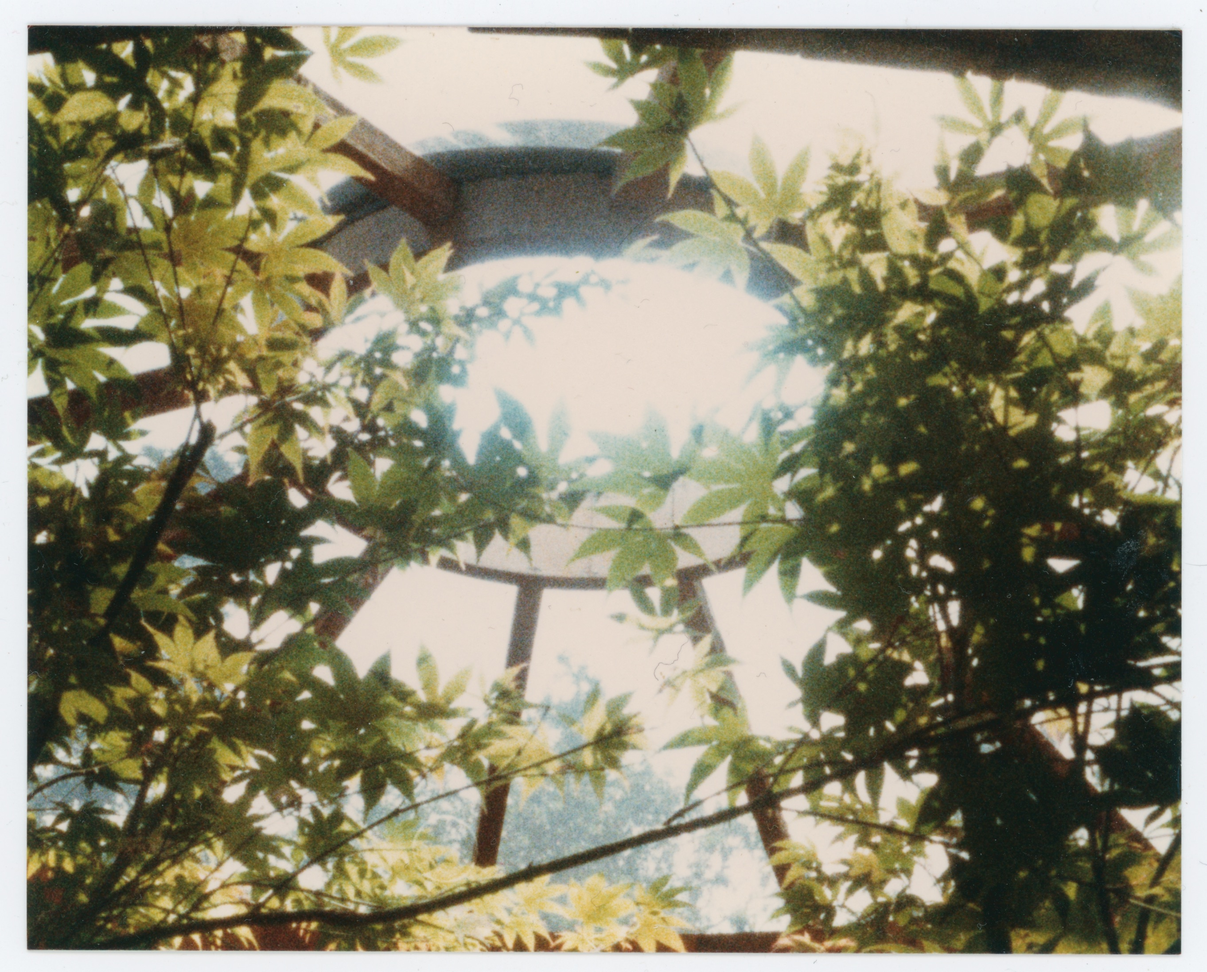
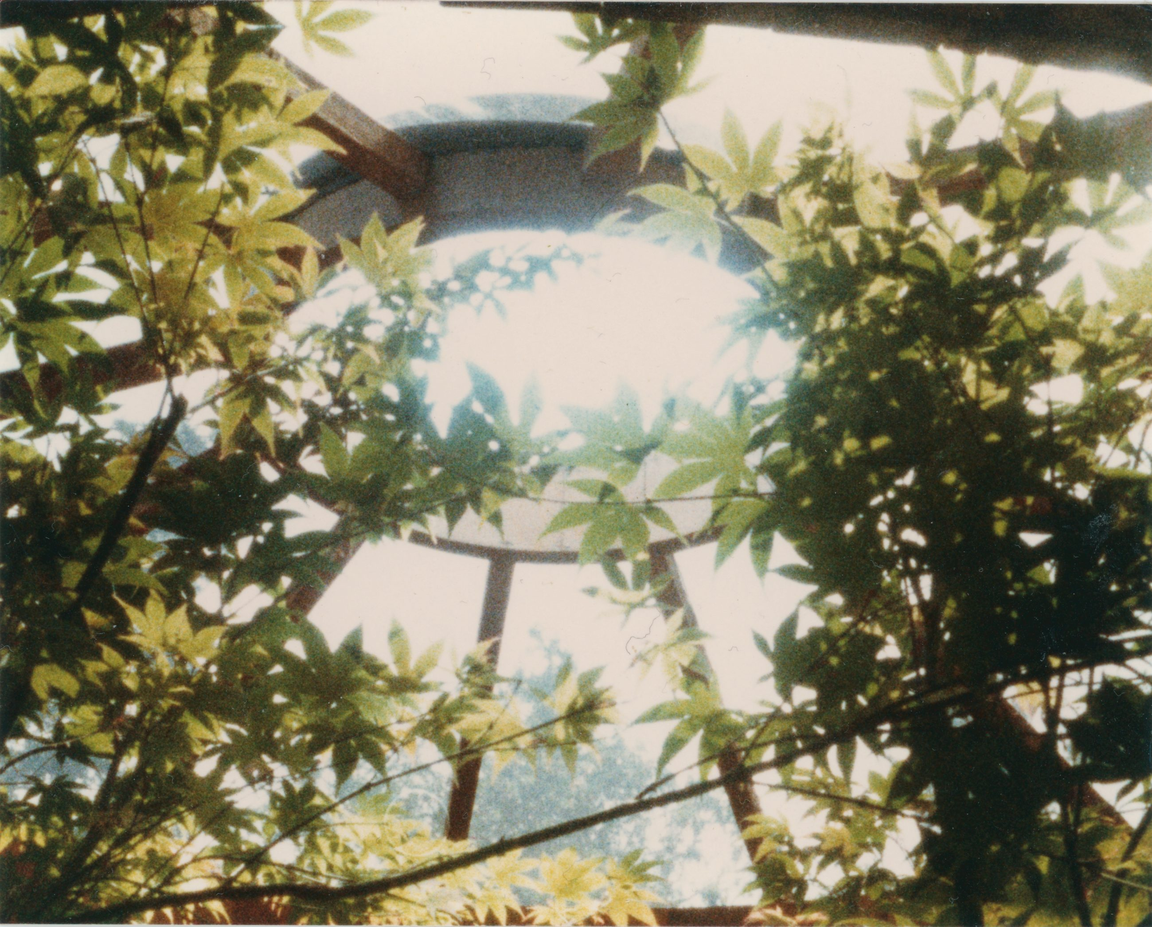
entry-test4 e4-v0.53: crop FRH-0009 scan borders (no white edges); keep menu labels black on every card (drop the dark-card white flip)

diff --git a/entry-test4.html b/entry-test4.html
@@ -206,9 +206,7 @@
     opacity:1 !important;pointer-events:none !important;z-index:9}
   #menu a{position:fixed;left:46px;top:46px;padding:0 !important;white-space:nowrap;
     opacity:0;pointer-events:auto;transition:opacity .3s ease}
-  #menu a img.mi{opacity:1;transition:filter .3s ease}
-  /* over a dark card the ink labels flip to light so they stay legible */
-  #menu.mdark a img.mi{filter:invert(1)}
+  #menu a img.mi{opacity:1}   /* menu labels stay black on every card */
   /* the wordmark: HUNTER HOUSE, black bold, top-left — shown past the film intro (opacity driven in JS) */
   #wordmark{transition:opacity .4s ease;display:none}
   /* the DOT RAIL — position within the current section, just left of the menu */
@@ -367,12 +365,12 @@
   </section>
   <!-- ARCHIVE: trying FRH-0009 (central glass-domed garden, 1977) as the background -->
   <section class="scard ps cover" data-section="archive">
-    <img class="layer" src="assets/entry/cards/archive/FRH0009.jpg" alt="Central glass-domed garden through the maple leaves, 1977">
+    <img class="layer" src="assets/entry/cards/archive/FRH0009.jpg?v=2" alt="Central glass-domed garden through the maple leaves, 1977">
   </section>
   <section class="scard" data-section="about"><div class="titleblock"><div class="stitle">About</div><div class="sblurb">The Hunter House Foundation — mandate, people, contact.</div></div><img src="https://archive.hunterhousefoundation.com/ivan-hunter-collection/previews/HH-IHC-0038_HunterHouse_2024_prev.jpg" alt="About — the house today"></section>
 </div>
 <div id="sec-panel"><img alt=""></div>
-<div id="ver" style="position:fixed;right:12px;bottom:10px;z-index:9;font-family:'JetBrains Mono',Menlo,monospace;font-size:9px;letter-spacing:.06em;color:rgba(27,25,24,.35);pointer-events:none">e4-v0.52</div>
+<div id="ver" style="position:fixed;right:12px;bottom:10px;z-index:9;font-family:'JetBrains Mono',Menlo,monospace;font-size:9px;letter-spacing:.06em;color:rgba(27,25,24,.35);pointer-events:none">e4-v0.53</div>
 
 <script>
 // entry-test2 v0.36 — z: 0..1 the entry photograph (title → wordmark) ·
@@ -1108,7 +1106,7 @@
   if (document.fonts && document.fonts.ready) document.fonts.ready.then(function () { apply(); });
 
   apply();
-  console.log("entry-test4 e4-v0.52 — survey to 3 cards: House·Hunter·Site grouped, then Archive, then About");
+  console.log("entry-test4 e4-v0.53 — survey to 3 cards: House·Hunter·Site grouped, then Archive, then About");
 })();
 </script>
 </body>
